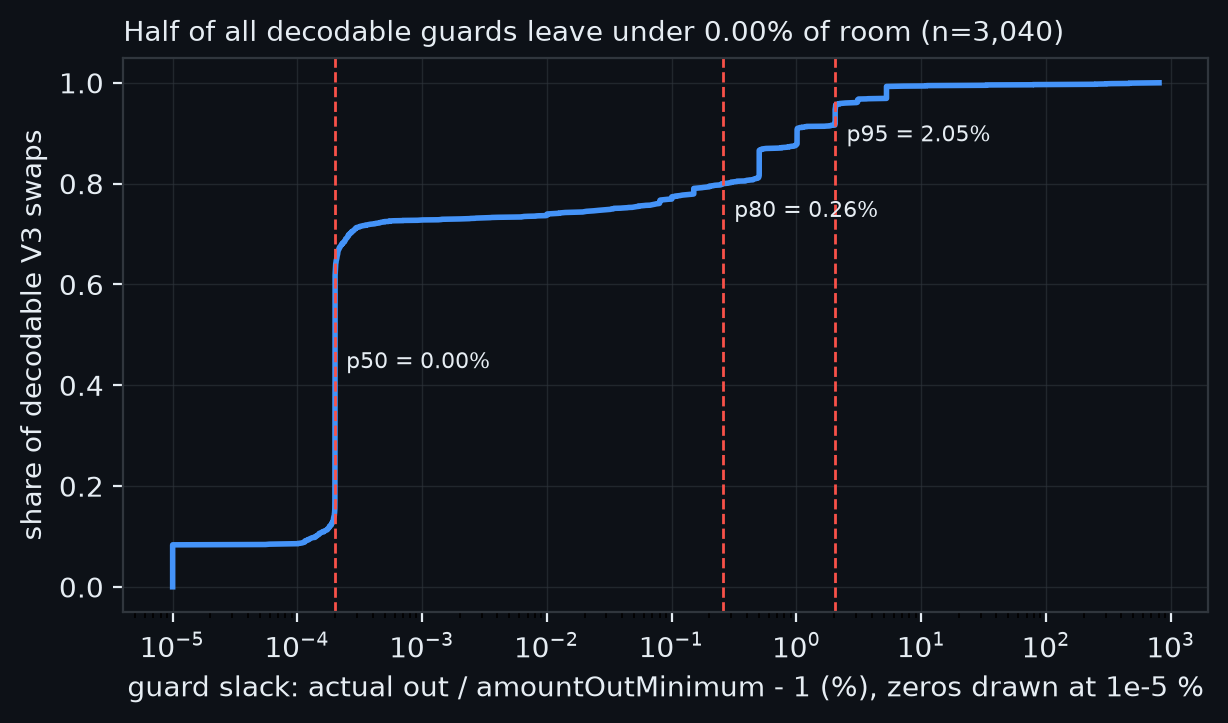
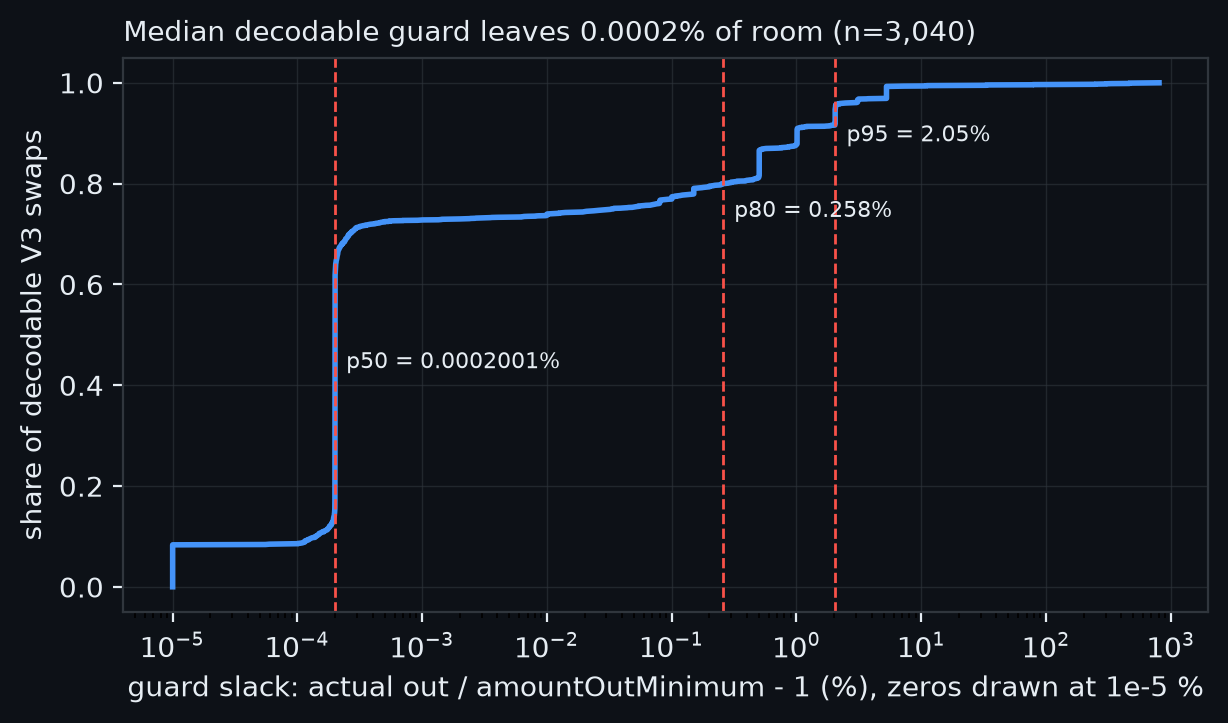
fix(figures): colour every text element with the theme foreground in both themes
Titles set after framing and annotations kept the default black on the dark
background. A shared save step recolours all text; the guard title reports the
median slack instead of a rounded 0.00%.

Changed region(s): [[0.0928, 0.0304, 0.8664, 0.0609], [0.3713, 0.4869, 0.4642, 0.5173], [0.6808, 0.2739, 0.7427, 0.3043]]

diff --git a/scripts/figures/visibility.py b/scripts/figures/visibility.py
@@ -42,12 +42,12 @@ def guard_ecdf(th: dict, name: str) -> None:
     ax.plot([max(v, 1e-7) * 100 for v in s], [(i + 1) / n for i in range(n)], color=th["a"], lw=2)
     for p, v in q.items():
         ax.axvline(max(v, 1e-7) * 100, color=th["b"], ls="--", lw=1)
-        ax.annotate(f"p{int(p * 100)} = {v * 100:.2f}%", (max(v, 1e-7) * 100, p),
+        ax.annotate(f"p{int(p * 100)} = {v * 100:.4g}%", (max(v, 1e-7) * 100, p),
                     textcoords="offset points", xytext=(4, -12), color=th["fg"], fontsize=8)
     ax.set_xscale("log")
     ax.set_xlabel("guard slack: actual out / amountOutMinimum - 1 (%), zeros drawn at 1e-5 %")
     ax.set_ylabel("share of decodable V3 swaps")
-    ax.set_title(f"Half of all decodable guards leave under {q[0.5] * 100:.2f}% of room (n={n:,})",
+    ax.set_title(f"Median decodable guard leaves {q[0.5] * 100:.4f}% of room (n={n:,})",
                  loc="left", fontsize=10)
     save(fig, th, OUT / f"guard-{name}.png")
     plt.close(fig)
